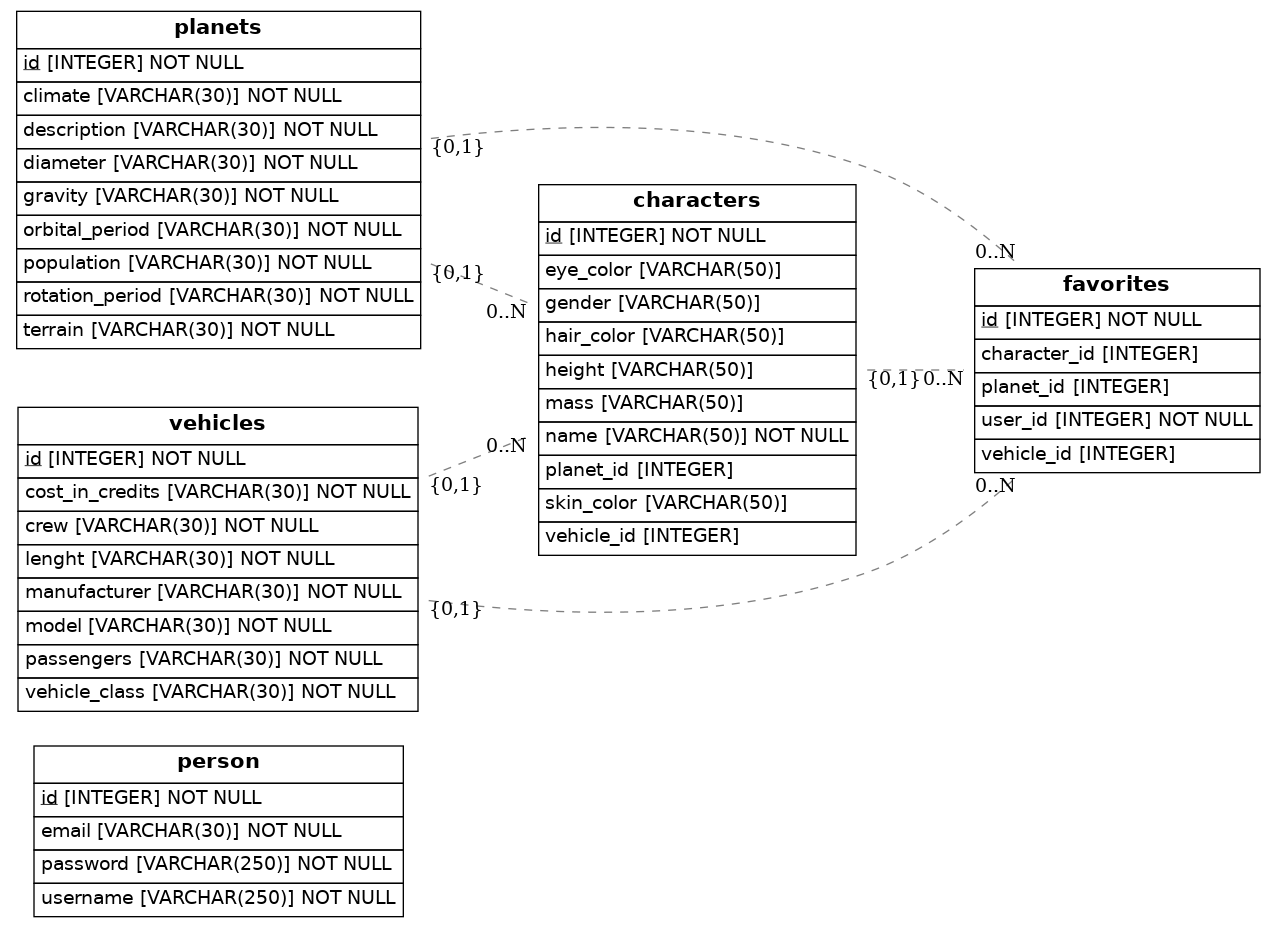
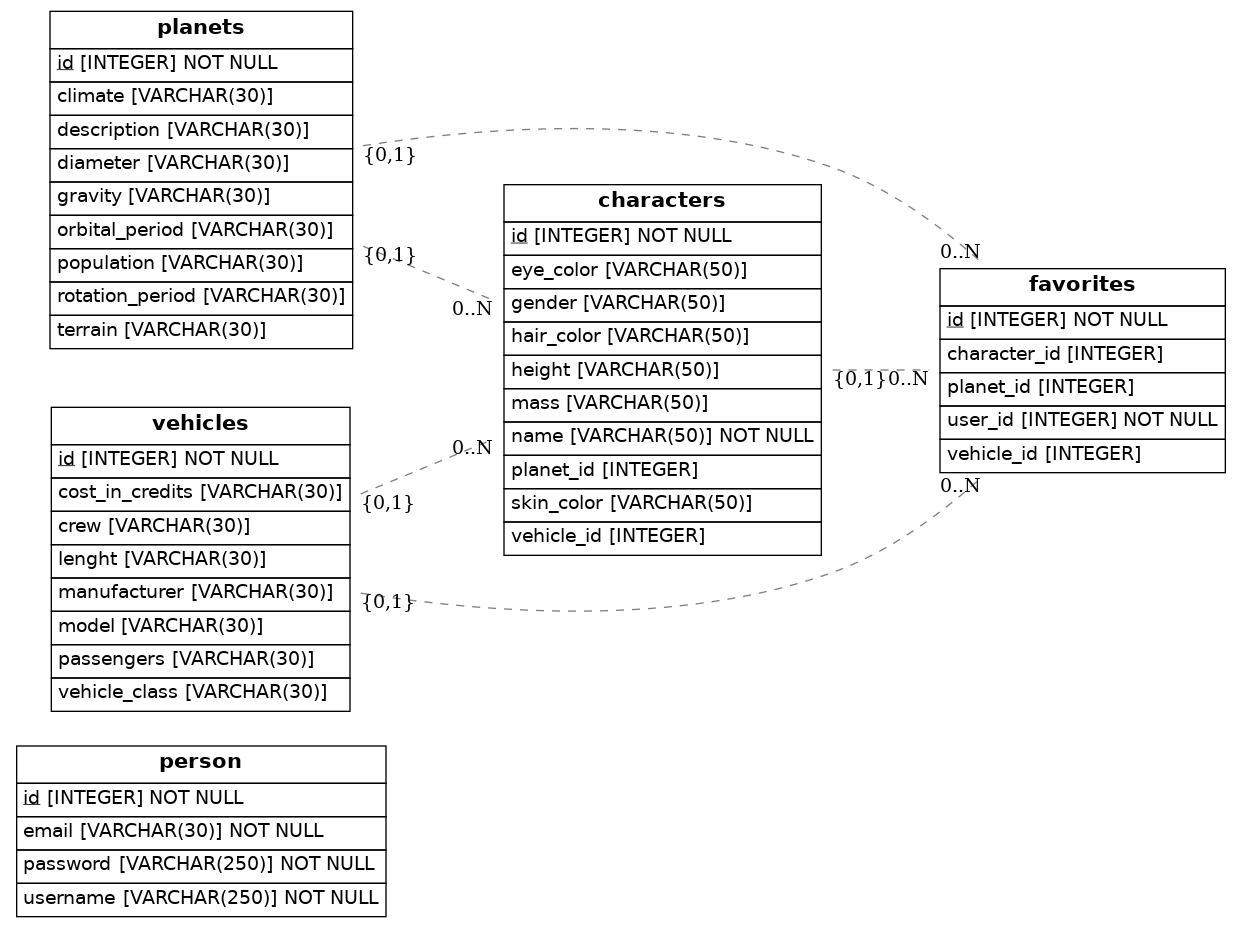
done

diff --git a/src/models.py b/src/models.py
@@ -25,14 +25,14 @@ class User(Base):
 class Planets(Base):
     __tablename__ = 'planets'
     id = Column(Integer, primary_key=True)
-    diameter = Column (String(30), nullable = False)
-    rotation_period = Column (String(30), nullable = False)
-    orbital_period = Column (String(30), nullable = False)
-    gravity = Column (String(30), nullable = False)
-    population = Column (String(30), nullable = False)
-    climate = Column (String(30), nullable = False)
-    terrain = Column (String(30), nullable = False)
-    description = Column (String(30), nullable = False)
+    diameter = Column (String(30), nullable = True)
+    rotation_period = Column (String(30), nullable = True)
+    orbital_period = Column (String(30), nullable = True)
+    gravity = Column (String(30), nullable = True)
+    population = Column (String(30), nullable = True)
+    climate = Column (String(30), nullable = True)
+    terrain = Column (String(30), nullable = True)
+    description = Column (String(30), nullable = True)
 
 
     def serialize(self):
@@ -50,13 +50,13 @@ class Planets(Base):
 class Vehicles(Base):
     __tablename__ = 'vehicles'
     id = Column(Integer, primary_key=True)
-    model =Column (String(30), nullable = False)
-    vehicle_class = Column(String(30), nullable = False)
-    manufacturer =Column (String(30), nullable = False)
-    cost_in_credits =Column (String(30), nullable = False)
-    lenght =Column (String(30), nullable = False)
-    crew =Column  (String(30), nullable = False)
-    passengers =Column (String(30), nullable = False)
+    model =Column (String(30), nullable = True)
+    vehicle_class = Column(String(30), nullable = True)
+    manufacturer =Column (String(30), nullable = True)
+    cost_in_credits =Column (String(30), nullable = True)
+    lenght =Column (String(30), nullable = True)
+    crew =Column  (String(30), nullable = True)
+    passengers =Column (String(30), nullable = True)
 
     def serialize(self):
         return{
